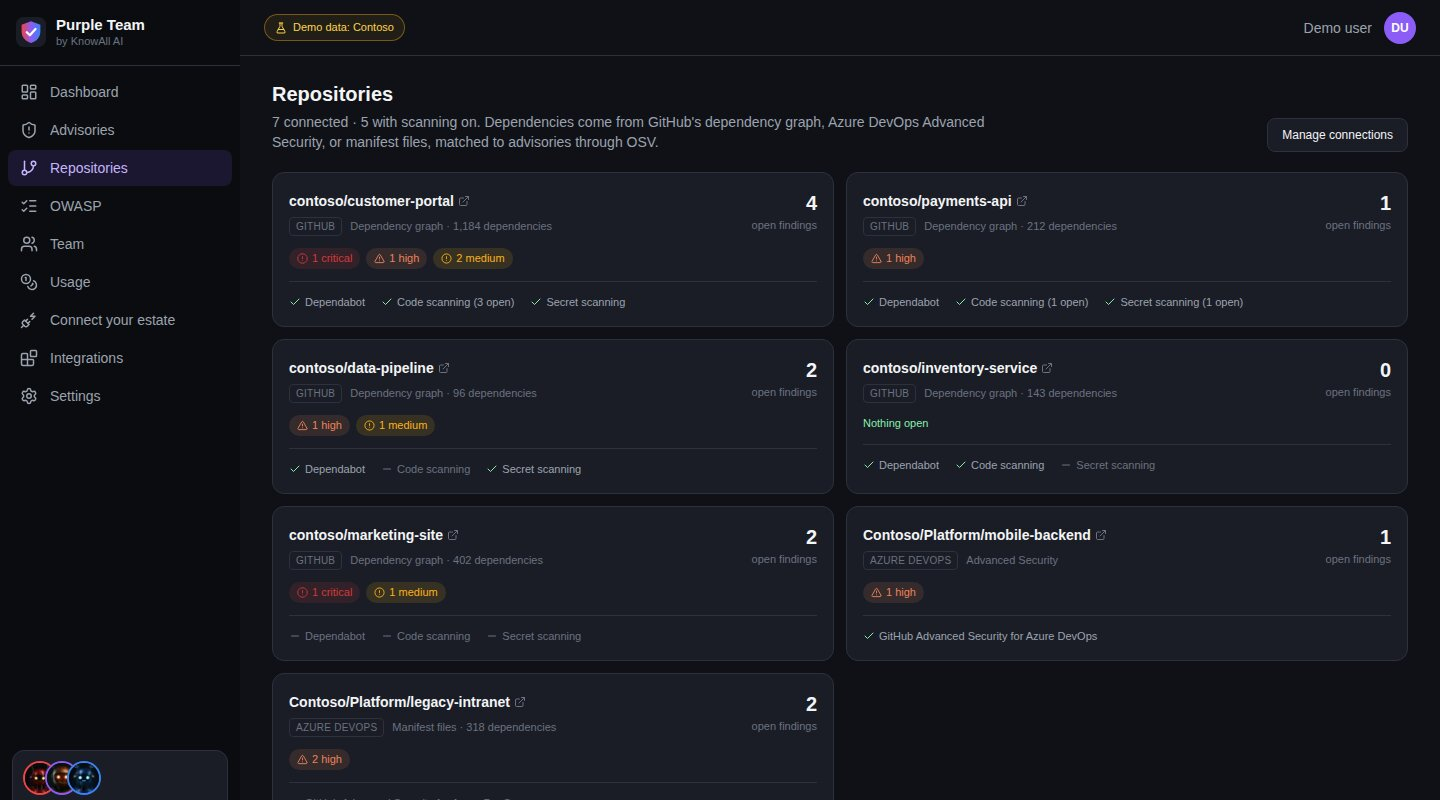
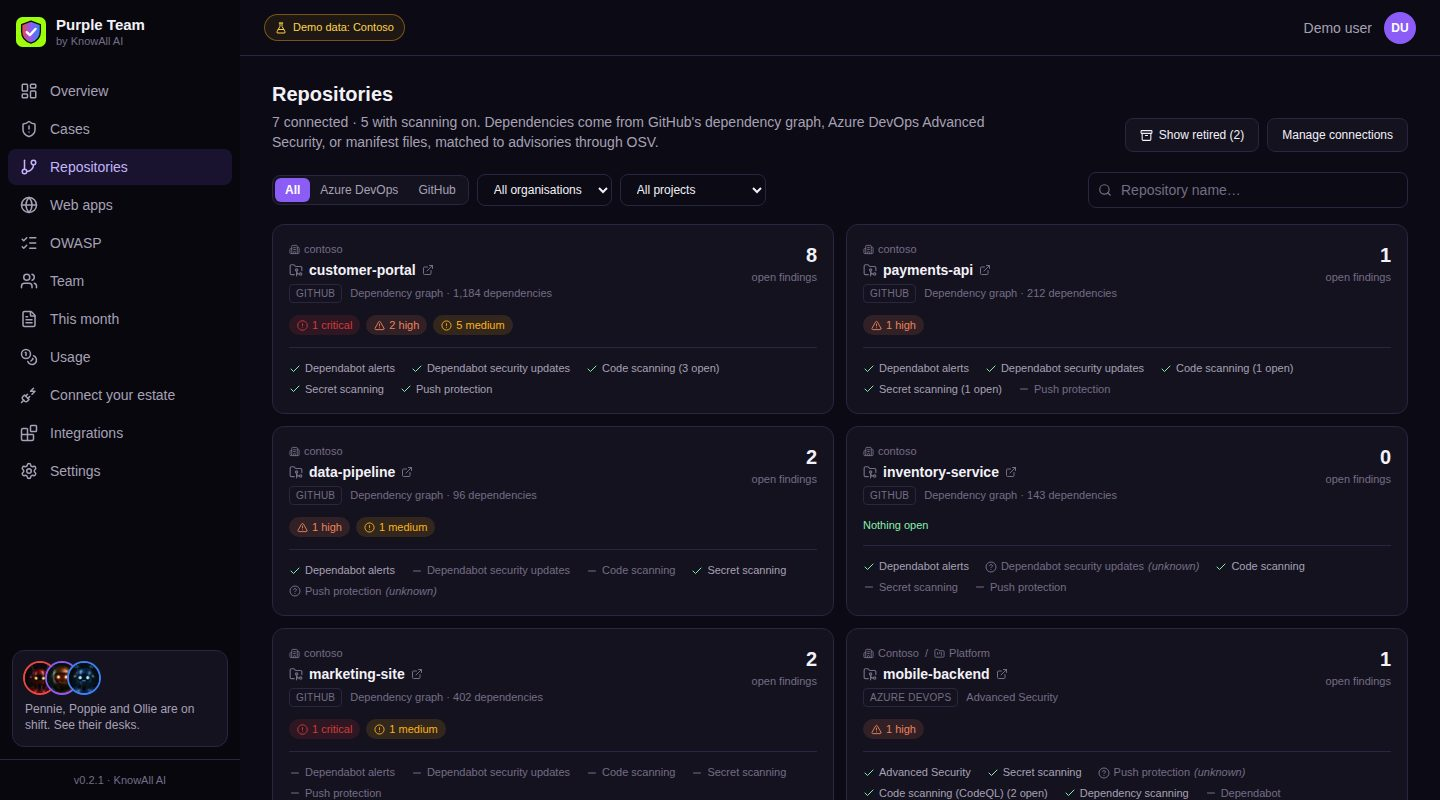
feat(presentations): current Purple Team Portal screenshots (#246)
* feat(presentations): current Purple Team Portal screenshots

Slide 9's carousel showed the old portal (Dashboard, Advisories). It now
shows eight current screens from DEMO_MODE (Contoso): Overview, Cases, Case
detail, Repositories, Repository, Web app, OWASP checklists and Usage and
hours, with matching captions, alt text and dots. The three retired images
are removed.

Fixes #245

* feat(presentations): portal screenshots with the lime icon

Recaptured with knowall-ai/purple-team#41 included: the lime app icon and no
divider under the sidebar logo.

Refs #245

---------

diff --git a/presentations-src/purple-team.html b/presentations-src/purple-team.html
@@ -793,27 +793,35 @@
               <div class="portal-shot portal-carousel carousel" role="group" aria-roledescription="carousel" aria-label="Purple Team Portal screens">
                 <div class="carousel-track">
                   <figure class="carousel-slide is-active" aria-hidden="false">
-                    <img src="images/portal-dashboard.jpg" alt="Purple Team Portal, Dashboard page, for the fictional company Contoso: Security score, its trend and the month's key figures" />
-                    <figcaption><strong>Dashboard</strong> &middot; Security score, its trend and the month&rsquo;s key figures</figcaption>
+                    <img src="images/portal-overview.jpg" alt="Purple Team Portal, Overview, for the fictional company Contoso: The team right now, what's waiting on you, Poppie's briefing and your security score" />
+                    <figcaption><strong>Overview</strong> &middot; The team right now, what&rsquo;s waiting on you, Poppie&rsquo;s briefing and your security score</figcaption>
                   </figure>
                   <figure class="carousel-slide" aria-hidden="true">
-                    <img src="images/portal-advisories.jpg" alt="Purple Team Portal, Advisories page, for the fictional company Contoso: Every advisory that affects you, scored and matched to your repositories" />
-                    <figcaption><strong>Advisories</strong> &middot; Every advisory that affects you, scored and matched to your repositories</figcaption>
+                    <img src="images/portal-cases.jpg" alt="Purple Team Portal, Cases, for the fictional company Contoso: Every vulnerability that affects you, scored, with Poppie's recommendation" />
+                    <figcaption><strong>Cases</strong> &middot; Every vulnerability that affects you, scored, with Poppie&rsquo;s recommendation</figcaption>
                   </figure>
                   <figure class="carousel-slide" aria-hidden="true">
-                    <img src="images/portal-advisory.jpg" alt="Purple Team Portal, Advisory detail page, for the fictional company Contoso: Why it matters to you, the evidence, and what the team did about it" />
-                    <figcaption><strong>Advisory detail</strong> &middot; Why it matters to you, the evidence, and what the team did about it</figcaption>
+                    <img src="images/portal-case.jpg" alt="Purple Team Portal, Case detail, for the fictional company Contoso: Pennie's verdict and evidence, Ollie's fix, and where it stands" />
+                    <figcaption><strong>Case detail</strong> &middot; Pennie&rsquo;s verdict and evidence, Ollie&rsquo;s fix, and where it stands</figcaption>
                   </figure>
                   <figure class="carousel-slide" aria-hidden="true">
-                    <img src="images/portal-repos.jpg" alt="Purple Team Portal, Repositories page, for the fictional company Contoso: Each repository's open findings and the scanners watching it" />
-                    <figcaption><strong>Repositories</strong> &middot; Each repository&rsquo;s open findings and the scanners watching it</figcaption>
+                    <img src="images/portal-repos.jpg" alt="Purple Team Portal, Repositories, for the fictional company Contoso: Each repository by organisation and project, its open findings and its scanning" />
+                    <figcaption><strong>Repositories</strong> &middot; Each repository by organisation and project, its open findings and its scanning</figcaption>
                   </figure>
                   <figure class="carousel-slide" aria-hidden="true">
-                    <img src="images/portal-owasp.jpg" alt="Purple Team Portal, OWASP checklists page, for the fictional company Contoso: The OWASP Top 10 and LLM Top 10, item by item, with Pennie's results" />
+                    <img src="images/portal-repo.jpg" alt="Purple Team Portal, Repository page, for the fictional company Contoso: The team's recommendations for one repository, with a button to set them going" />
+                    <figcaption><strong>Repository</strong> &middot; The team&rsquo;s recommendations for one repository, with a button to set them going</figcaption>
+                  </figure>
+                  <figure class="carousel-slide" aria-hidden="true">
+                    <img src="images/portal-app.jpg" alt="Purple Team Portal, Web app page, for the fictional company Contoso: Each Azure web app: its repository, Front Door and WAF, and Defender for Cloud" />
+                    <figcaption><strong>Web app</strong> &middot; Each Azure web app: its repository, Front Door and WAF, and Defender for Cloud</figcaption>
+                  </figure>
+                  <figure class="carousel-slide" aria-hidden="true">
+                    <img src="images/portal-owasp.jpg" alt="Purple Team Portal, OWASP checklists, for the fictional company Contoso: The OWASP Top 10 and LLM Top 10, item by item, with Pennie's results" />
                     <figcaption><strong>OWASP checklists</strong> &middot; The OWASP Top 10 and LLM Top 10, item by item, with Pennie&rsquo;s results</figcaption>
                   </figure>
                   <figure class="carousel-slide" aria-hidden="true">
-                    <img src="images/portal-usage.jpg" alt="Purple Team Portal, Usage and hours page, for the fictional company Contoso: Time spent per case, by agent and by job, against your plan" />
+                    <img src="images/portal-usage.jpg" alt="Purple Team Portal, Usage and hours, for the fictional company Contoso: Time spent per case, by agent and by job, against your plan" />
                     <figcaption><strong>Usage and hours</strong> &middot; Time spent per case, by agent and by job, against your plan</figcaption>
                   </figure>
                 </div>
@@ -824,7 +832,7 @@
                   <svg class="carousel-icon-pause" viewBox="0 0 16 16" aria-hidden="true"><rect x="3" y="2" width="3.5" height="12" rx="1" /><rect x="9.5" y="2" width="3.5" height="12" rx="1" /></svg>
                   <svg class="carousel-icon-play" viewBox="0 0 16 16" aria-hidden="true"><path d="M4 2.2v11.6c0 .6.7 1 1.2.6l8.4-5.8a.75.75 0 0 0 0-1.2L5.2 1.6c-.5-.4-1.2 0-1.2.6z" /></svg>
                 </button>
-                <div class="carousel-dots"><button type="button" class="carousel-dot is-active" aria-label="Show Dashboard"></button><button type="button" class="carousel-dot" aria-label="Show Advisories"></button><button type="button" class="carousel-dot" aria-label="Show Advisory detail"></button><button type="button" class="carousel-dot" aria-label="Show Repositories"></button><button type="button" class="carousel-dot" aria-label="Show OWASP checklists"></button><button type="button" class="carousel-dot" aria-label="Show Usage and hours"></button></div>
+                <div class="carousel-dots"><button type="button" class="carousel-dot is-active" aria-label="Show Overview"></button><button type="button" class="carousel-dot" aria-label="Show Cases"></button><button type="button" class="carousel-dot" aria-label="Show Case detail"></button><button type="button" class="carousel-dot" aria-label="Show Repositories"></button><button type="button" class="carousel-dot" aria-label="Show Repository"></button><button type="button" class="carousel-dot" aria-label="Show Web app"></button><button type="button" class="carousel-dot" aria-label="Show OWASP checklists"></button><button type="button" class="carousel-dot" aria-label="Show Usage and hours"></button></div>
               </div>
             </div>
           </div>

diff --git a/public/presentations/purple-team.html b/public/presentations/purple-team.html
@@ -814,27 +814,35 @@
               <div class="portal-shot portal-carousel carousel" role="group" aria-roledescription="carousel" aria-label="Purple Team Portal screens">
                 <div class="carousel-track">
                   <figure class="carousel-slide is-active" aria-hidden="false">
-                    <img src="images/portal-dashboard.jpg" alt="Purple Team Portal, Dashboard page, for the fictional company Contoso: Security score, its trend and the month's key figures" />
-                    <figcaption><strong>Dashboard</strong> &middot; Security score, its trend and the month&rsquo;s key figures</figcaption>
+                    <img src="images/portal-overview.jpg" alt="Purple Team Portal, Overview, for the fictional company Contoso: The team right now, what's waiting on you, Poppie's briefing and your security score" />
+                    <figcaption><strong>Overview</strong> &middot; The team right now, what&rsquo;s waiting on you, Poppie&rsquo;s briefing and your security score</figcaption>
                   </figure>
                   <figure class="carousel-slide" aria-hidden="true">
-                    <img src="images/portal-advisories.jpg" alt="Purple Team Portal, Advisories page, for the fictional company Contoso: Every advisory that affects you, scored and matched to your repositories" />
-                    <figcaption><strong>Advisories</strong> &middot; Every advisory that affects you, scored and matched to your repositories</figcaption>
+                    <img src="images/portal-cases.jpg" alt="Purple Team Portal, Cases, for the fictional company Contoso: Every vulnerability that affects you, scored, with Poppie's recommendation" />
+                    <figcaption><strong>Cases</strong> &middot; Every vulnerability that affects you, scored, with Poppie&rsquo;s recommendation</figcaption>
                   </figure>
                   <figure class="carousel-slide" aria-hidden="true">
-                    <img src="images/portal-advisory.jpg" alt="Purple Team Portal, Advisory detail page, for the fictional company Contoso: Why it matters to you, the evidence, and what the team did about it" />
-                    <figcaption><strong>Advisory detail</strong> &middot; Why it matters to you, the evidence, and what the team did about it</figcaption>
+                    <img src="images/portal-case.jpg" alt="Purple Team Portal, Case detail, for the fictional company Contoso: Pennie's verdict and evidence, Ollie's fix, and where it stands" />
+                    <figcaption><strong>Case detail</strong> &middot; Pennie&rsquo;s verdict and evidence, Ollie&rsquo;s fix, and where it stands</figcaption>
                   </figure>
                   <figure class="carousel-slide" aria-hidden="true">
-                    <img src="images/portal-repos.jpg" alt="Purple Team Portal, Repositories page, for the fictional company Contoso: Each repository's open findings and the scanners watching it" />
-                    <figcaption><strong>Repositories</strong> &middot; Each repository&rsquo;s open findings and the scanners watching it</figcaption>
+                    <img src="images/portal-repos.jpg" alt="Purple Team Portal, Repositories, for the fictional company Contoso: Each repository by organisation and project, its open findings and its scanning" />
+                    <figcaption><strong>Repositories</strong> &middot; Each repository by organisation and project, its open findings and its scanning</figcaption>
                   </figure>
                   <figure class="carousel-slide" aria-hidden="true">
-                    <img src="images/portal-owasp.jpg" alt="Purple Team Portal, OWASP checklists page, for the fictional company Contoso: The OWASP Top 10 and LLM Top 10, item by item, with Pennie's results" />
+                    <img src="images/portal-repo.jpg" alt="Purple Team Portal, Repository page, for the fictional company Contoso: The team's recommendations for one repository, with a button to set them going" />
+                    <figcaption><strong>Repository</strong> &middot; The team&rsquo;s recommendations for one repository, with a button to set them going</figcaption>
+                  </figure>
+                  <figure class="carousel-slide" aria-hidden="true">
+                    <img src="images/portal-app.jpg" alt="Purple Team Portal, Web app page, for the fictional company Contoso: Each Azure web app: its repository, Front Door and WAF, and Defender for Cloud" />
+                    <figcaption><strong>Web app</strong> &middot; Each Azure web app: its repository, Front Door and WAF, and Defender for Cloud</figcaption>
+                  </figure>
+                  <figure class="carousel-slide" aria-hidden="true">
+                    <img src="images/portal-owasp.jpg" alt="Purple Team Portal, OWASP checklists, for the fictional company Contoso: The OWASP Top 10 and LLM Top 10, item by item, with Pennie's results" />
                     <figcaption><strong>OWASP checklists</strong> &middot; The OWASP Top 10 and LLM Top 10, item by item, with Pennie&rsquo;s results</figcaption>
                   </figure>
                   <figure class="carousel-slide" aria-hidden="true">
-                    <img src="images/portal-usage.jpg" alt="Purple Team Portal, Usage and hours page, for the fictional company Contoso: Time spent per case, by agent and by job, against your plan" />
+                    <img src="images/portal-usage.jpg" alt="Purple Team Portal, Usage and hours, for the fictional company Contoso: Time spent per case, by agent and by job, against your plan" />
                     <figcaption><strong>Usage and hours</strong> &middot; Time spent per case, by agent and by job, against your plan</figcaption>
                   </figure>
                 </div>
@@ -845,7 +853,7 @@
                   <svg class="carousel-icon-pause" viewBox="0 0 16 16" aria-hidden="true"><rect x="3" y="2" width="3.5" height="12" rx="1" /><rect x="9.5" y="2" width="3.5" height="12" rx="1" /></svg>
                   <svg class="carousel-icon-play" viewBox="0 0 16 16" aria-hidden="true"><path d="M4 2.2v11.6c0 .6.7 1 1.2.6l8.4-5.8a.75.75 0 0 0 0-1.2L5.2 1.6c-.5-.4-1.2 0-1.2.6z" /></svg>
                 </button>
-                <div class="carousel-dots"><button type="button" class="carousel-dot is-active" aria-label="Show Dashboard"></button><button type="button" class="carousel-dot" aria-label="Show Advisories"></button><button type="button" class="carousel-dot" aria-label="Show Advisory detail"></button><button type="button" class="carousel-dot" aria-label="Show Repositories"></button><button type="button" class="carousel-dot" aria-label="Show OWASP checklists"></button><button type="button" class="carousel-dot" aria-label="Show Usage and hours"></button></div>
+                <div class="carousel-dots"><button type="button" class="carousel-dot is-active" aria-label="Show Overview"></button><button type="button" class="carousel-dot" aria-label="Show Cases"></button><button type="button" class="carousel-dot" aria-label="Show Case detail"></button><button type="button" class="carousel-dot" aria-label="Show Repositories"></button><button type="button" class="carousel-dot" aria-label="Show Repository"></button><button type="button" class="carousel-dot" aria-label="Show Web app"></button><button type="button" class="carousel-dot" aria-label="Show OWASP checklists"></button><button type="button" class="carousel-dot" aria-label="Show Usage and hours"></button></div>
               </div>
             </div>
           </div>
